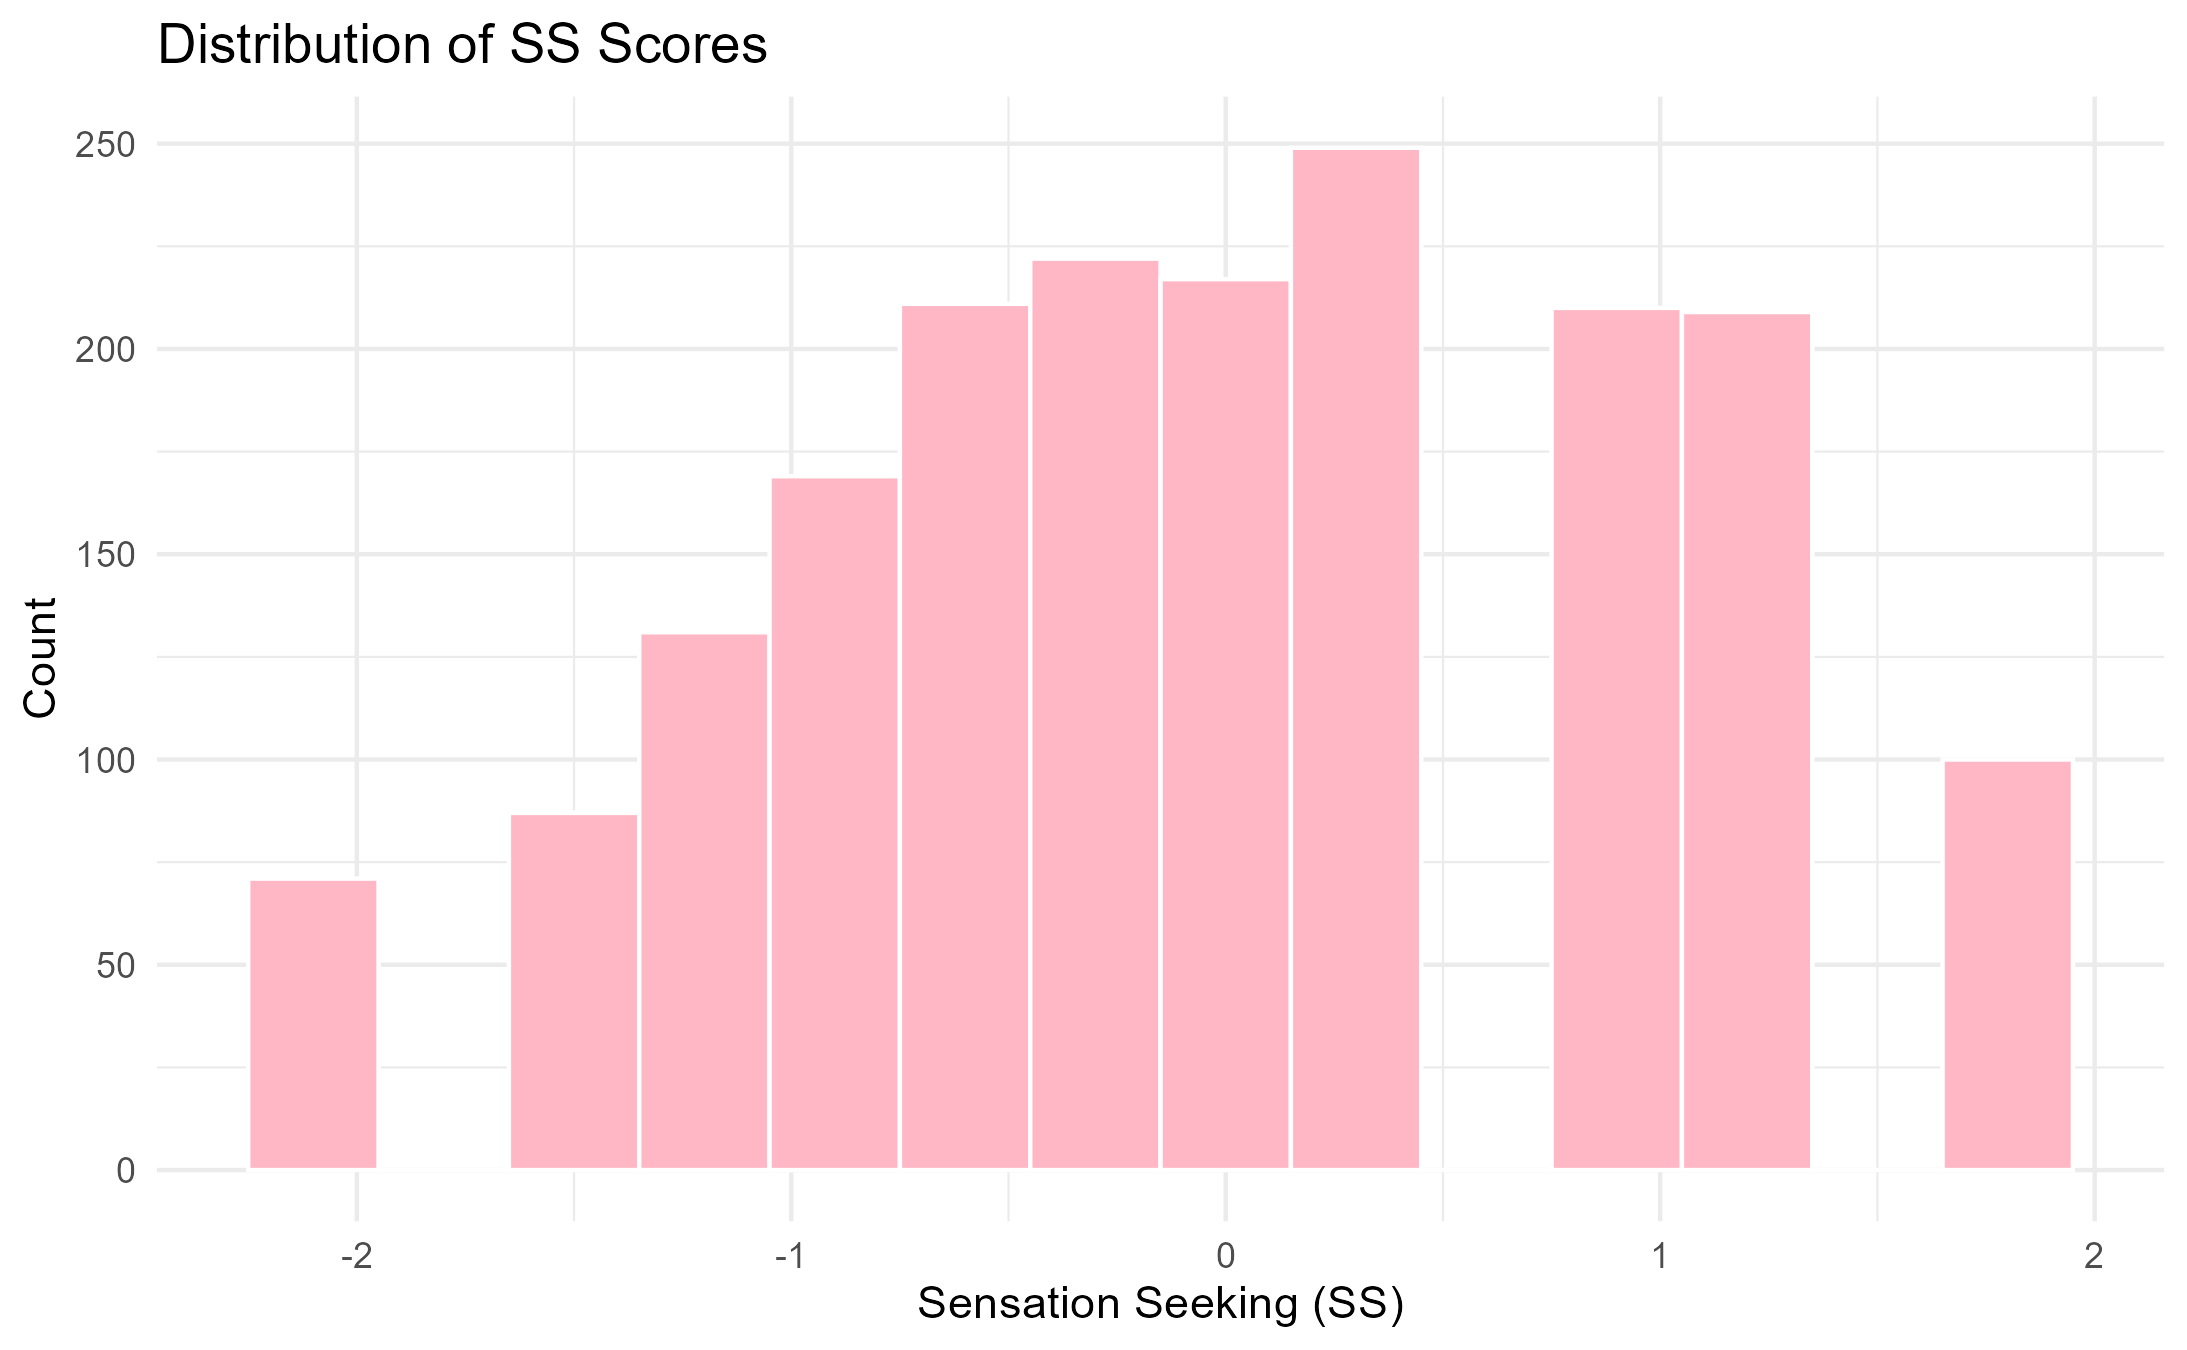
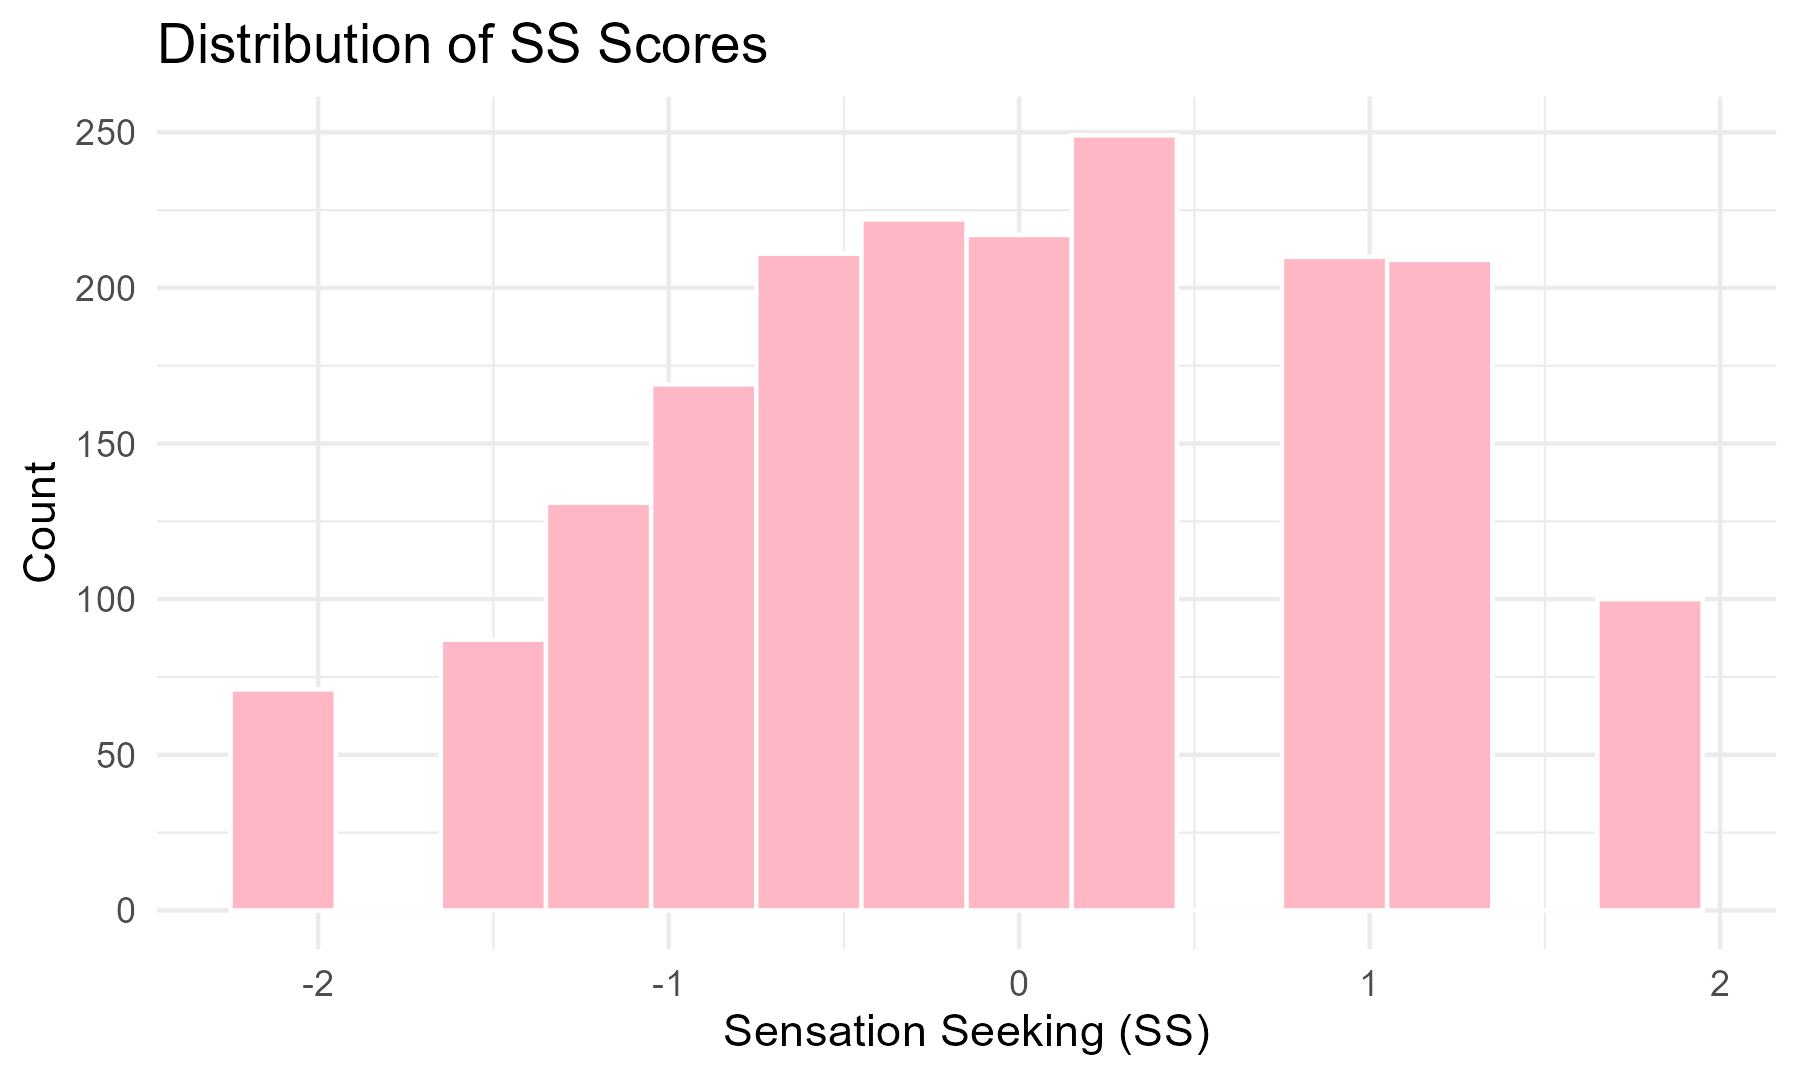
Updating eda.rmd file with descriptions and observations for the visualizations and knitting the rmd file to a github_document

diff --git a/eda.md b/eda.md
@@ -1,17 +1,31 @@
----
-title: "Exploratory Data Analysis"
-output: github_document
----
+Exploratory Data Analysis
+================
 
-Description: This document contains the workflow for our exploratory data analysis process including creating visualizations showing the distribution of personality trait scores, comparing these scores across drug users and non drug users, comparing the proportion of illegal and legal drug users across scoring types, and finding correlations between personality trait scores and ordinal drug usage, along with our observations. 
-
-```{r}
+``` r
 # Load in relevant libraries
 library(tidyverse)
+```
+
+    ## ── Attaching core tidyverse packages ──────────────────────── tidyverse 2.0.0 ──
+    ## ✔ dplyr     1.1.4     ✔ readr     2.1.5
+    ## ✔ forcats   1.0.0     ✔ stringr   1.5.2
+    ## ✔ ggplot2   4.0.0     ✔ tibble    3.3.0
+    ## ✔ lubridate 1.9.4     ✔ tidyr     1.3.1
+    ## ✔ purrr     1.1.0     
+    ## ── Conflicts ────────────────────────────────────────── tidyverse_conflicts() ──
+    ## ✖ dplyr::filter() masks stats::filter()
+    ## ✖ dplyr::lag()    masks stats::lag()
+    ## ℹ Use the conflicted package (<http://conflicted.r-lib.org/>) to force all conflicts to become errors
+
+``` r
 library(patchwork)
 library(ggplot2)
 library(pheatmap)
+```
 
+    ## Warning: package 'pheatmap' was built under R version 4.5.2
+
+``` r
 # default options
 knitr::opts_chunk$set(
   fig.width = 6,
@@ -28,16 +42,25 @@ options(
 
 scale_colour_discrete = scale_colour_viridis_d
 scale_fill_discrete = scale_fill_viridis_d
-
 ```
 
-
-```{r}
+``` r
 # Read in cleaned dataset
 drug_data = read_csv("data/cleaned_drug_data.csv") |>
   mutate(
     Gender = as.factor(Gender))
+```
 
+    ## Rows: 1876 Columns: 31
+    ## ── Column specification ────────────────────────────────────────────────────────
+    ## Delimiter: ","
+    ## chr  (3): Education, Country, Ethnicity
+    ## dbl (28): ID, Age, Gender, Nscore, Escore, Oscore, Ascore, Cscore, Impulsive...
+    ## 
+    ## ℹ Use `spec()` to retrieve the full column specification for this data.
+    ## ℹ Specify the column types or set `show_col_types = FALSE` to quiet this message.
+
+``` r
 # Create version of the dataset where we collapse drug use levels into binary values (drug user or non-user)
 # 0-1: non-user
 # 2–6: user
@@ -95,14 +118,13 @@ legalusage_ordinal_data = drug_data |>
 # 4: 45-54
 # 5: 55-64
 # 6: 65+
-
 ```
-
 
 # Trait distributions
 
 ## Histogram of OCEAN Scores
-```{r}
+
+``` r
 O_hist = drug_data |> 
   ggplot(aes(x = Oscore)) + 
   geom_histogram(fill = "#F4C2C2", color = "white", binwidth = 0.4) +
@@ -148,13 +170,21 @@ OCEAN_hist = (O_hist + C_hist + E_hist) / (A_hist + N_hist) +
   )
 
 OCEAN_hist
-ggsave("figs/hist_ocean.png", OCEAN_hist)
-
 ```
+
+<img src="eda_files/figure-gfm/unnamed-chunk-3-1.png" width="90%" />
+
+``` r
+ggsave("figs/hist_ocean.png", OCEAN_hist)
+```
+
+    ## Saving 6 x 3.59 in image
+
 Observations: All OCEAN scores seem to show a normal distribution.
 
 ## Histogram of impulsivity
-```{r}
+
+``` r
 impulsivity_hist = drug_data |> 
   ggplot(aes(x = Impulsive)) + 
   geom_histogram(fill = "#FFE4E1", color = "white", binwidth = 0.4) +
@@ -165,13 +195,22 @@ impulsivity_hist = drug_data |>
   ) 
 
 impulsivity_hist
-ggsave("figs/hist_impulsivity.png", impulsivity_hist)
-
 ```
-Observations: Impulsiveness scores seem to show a right skewed distribution.
+
+<img src="eda_files/figure-gfm/unnamed-chunk-4-1.png" width="90%" />
+
+``` r
+ggsave("figs/hist_impulsivity.png", impulsivity_hist)
+```
+
+    ## Saving 6 x 3.59 in image
+
+Observations: Impulsiveness scores seem to show a right skewed
+distribution.
 
 ## Histogram of sensation seeking
-```{r}
+
+``` r
 SS_hist = drug_data |> 
   ggplot(aes(x = SS)) + 
   geom_histogram(fill = "#FFB7C5", color = "white", binwidth = 0.3) +
@@ -182,16 +221,24 @@ SS_hist = drug_data |>
   ) 
 
 SS_hist
-ggsave("figs/hist_impSS.png", SS_hist)
-
 ```
-Observations: Sensation seeking scores seem to show a left skewed distribution.
 
+<img src="eda_files/figure-gfm/unnamed-chunk-5-1.png" width="90%" />
+
+``` r
+ggsave("figs/hist_impSS.png", SS_hist)
+```
+
+    ## Saving 6 x 3.59 in image
+
+Observations: Sensation seeking scores seem to show a left skewed
+distribution.
 
 # Traits by User Status
 
 ## Boxplot of OCEAN by user status
-```{r}
+
+``` r
 OCEAN_boxplot = usage_data |> 
   pivot_longer(
     Nscore:Cscore,
@@ -213,13 +260,26 @@ OCEAN_boxplot = usage_data |>
   theme(axis.text.x = element_text(angle = 40, hjust = 1))
 
 OCEAN_boxplot
-ggsave("figs/box_ocean_user.png", OCEAN_boxplot)
-
 ```
-Observations: The distribution of OCEAN scores in drug users vs non-drug users are not significantly different. The median openness to experience and neuroticism scores are lower in non drug users than drug users. The median conscientiousness, extraversion, and agreeableness scores are higher in non drug users than drug users. Drug users have a larger range of OCEAN scores than non-users.
+
+<img src="eda_files/figure-gfm/unnamed-chunk-6-1.png" width="90%" />
+
+``` r
+ggsave("figs/box_ocean_user.png", OCEAN_boxplot)
+```
+
+    ## Saving 6 x 3.59 in image
+
+Observations: The distribution of OCEAN scores in drug users vs non-drug
+users are not significantly different. The median openness to experience
+and neuroticism scores are lower in non drug users than drug users. The
+median conscientiousness, extraversion, and agreeableness scores are
+higher in non drug users than drug users. Drug users have a larger range
+of OCEAN scores than non-users.
 
 ## Boxplot of impulsivity by user status
-```{r}
+
+``` r
 impulsivity_boxplot = usage_data |> 
   ggplot(aes(x = harmfuluser_status, y = Impulsive, fill = harmfuluser_status)) + 
   geom_boxplot() +
@@ -233,16 +293,26 @@ impulsivity_boxplot = usage_data |>
   theme(legend.position = "none")
 
 impulsivity_boxplot
-ggsave("figs/box_impulsivity_user.png", impulsivity_boxplot)
-
 ```
-Observations: The distribution of Impulsiveness scores in drug users vs non-drug users are not significantly different. The median impulsivity score for non-users and users seem to be about the same. The impulsivity scores for drug users is has a larger third quartile than non-users. 
 
+<img src="eda_files/figure-gfm/unnamed-chunk-7-1.png" width="90%" />
+
+``` r
+ggsave("figs/box_impulsivity_user.png", impulsivity_boxplot)
+```
+
+    ## Saving 6 x 3.59 in image
+
+Observations: The distribution of Impulsiveness scores in drug users vs
+non-drug users are not significantly different. The median impulsivity
+score for non-users and users seem to be about the same. The impulsivity
+scores for drug users is has a larger third quartile than non-users.
 
 # Legal vs Illegal Usage
 
 ## Stacked barplot of legal vs illegal usage
-```{r}
+
+``` r
 I_stacked = legalusage_data |> 
   ggplot(aes(x = factor(Impulsive), fill = legaluser_status)) +
   geom_bar(position = "fill", color = "white") +
@@ -254,7 +324,11 @@ I_stacked = legalusage_data |>
   scale_fill_manual(values = c("legal" = "#6495ED", "illegal" = "#ADD8E6")) +
   theme(axis.text.x = element_text(angle = 45, hjust = 1))
 I_stacked
+```
 
+<img src="eda_files/figure-gfm/unnamed-chunk-8-1.png" width="90%" />
+
+``` r
 SS_stacked = legalusage_data |> 
   ggplot(aes(x = factor(SS), fill = legaluser_status)) +
   geom_bar(position = "fill", color = "white") +
@@ -267,20 +341,37 @@ SS_stacked = legalusage_data |>
   theme(legend.position = "none") +
   theme(axis.text.x = element_text(angle = 45, hjust = 1))
 SS_stacked
+```
 
+<img src="eda_files/figure-gfm/unnamed-chunk-8-2.png" width="90%" />
+
+``` r
 Imp_SS_stacked = (I_stacked + SS_stacked) +
   plot_annotation(
     title = "Proportion of Legal vs Illegal Drug Use Across Impulsivity and SS Scores"
   )
 
 Imp_SS_stacked
-ggsave("figs/stacked_legal_illegal.png", Imp_SS_stacked)
-
 ```
-Observations: As impulsivity scores increase, the proportion of illegal drug users increase and the proportion of legal drug users decrease. As sensation seeking scores increase, the proportion of illegal drug users increase and the proportion of legal drug users decrease. This indicates that there seems to be a relationship between higher impulsivity and sensation seeking scores and being a illegal drug user.
+
+<img src="eda_files/figure-gfm/unnamed-chunk-8-3.png" width="90%" />
+
+``` r
+ggsave("figs/stacked_legal_illegal.png", Imp_SS_stacked)
+```
+
+    ## Saving 6 x 3.59 in image
+
+Observations: As impulsivity scores increase, the proportion of illegal
+drug users increase and the proportion of legal drug users decrease. As
+sensation seeking scores increase, the proportion of illegal drug users
+increase and the proportion of legal drug users decrease. This indicates
+that there seems to be a relationship between higher impulsivity and
+sensation seeking scores and being a illegal drug user.
 
 ## Heatmap of correlations
-```{r}
+
+``` r
 correlation_matrix = cor(legalusage_ordinal_data[7:13], legalusage_ordinal_data[14:31])
 
 corr_heatmap = pheatmap(correlation_matrix,
@@ -292,10 +383,25 @@ corr_heatmap = pheatmap(correlation_matrix,
                         main = "Heatmap of Personality Traits x Drug Usage Correlations")
 
 corr_heatmap
-ggsave("figs/heatmap_traits_usage.png", corr_heatmap)
-
 ```
-Observations: The variables Alcohol, Caff, and Choc seem to be similar to and more correlated with each other which makes sense because they are legal drugs. An increase in SS scores, Oscore, and Impulsiveness scores seem to be moderately correlated with an increase in Cannabis, Legalh, Ecstasy, LSD, and Mushrooms usage in the past decade (these variables have a positive correlation). This indicates that being more sensation seeking, open to experiences, and impulsive are moderately associated with higher illegal drug usage of Cannabis, legal highs consumption, Ecstasy, LSD, and Mushrooms. An increase in especially cannabis and Legalh usage is associated with lower Cscore which means lower drug usage is weakly associated with lower drug usage of Cannabis and legal highs consumption.
 
+<img src="eda_files/figure-gfm/unnamed-chunk-9-1.png" width="90%" />
 
+``` r
+ggsave("figs/heatmap_traits_usage.png", corr_heatmap)
+```
 
+    ## Saving 6 x 3.59 in image
+
+Observations: The variables Alcohol, Caff, and Choc seem to be similar
+to and more correlated with each other which makes sense because they
+are legal drugs. An increase in SS scores, Oscore, and Impulsiveness
+scores seem to be moderately correlated with an increase in Cannabis,
+Legalh, Ecstasy, LSD, and Mushrooms usage in the past decade (these
+variables have a positive correlation). This indicates that being more
+sensation seeking, open to experiences, and impulsive are moderately
+associated with higher illegal drug usage of Cannabis, legal highs
+consumption, Ecstasy, LSD, and Mushrooms. An increase in especially
+cannabis and Legalh usage is associated with lower Cscore which means
+lower drug usage is weakly associated with lower drug usage of Cannabis
+and legal highs consumption.
